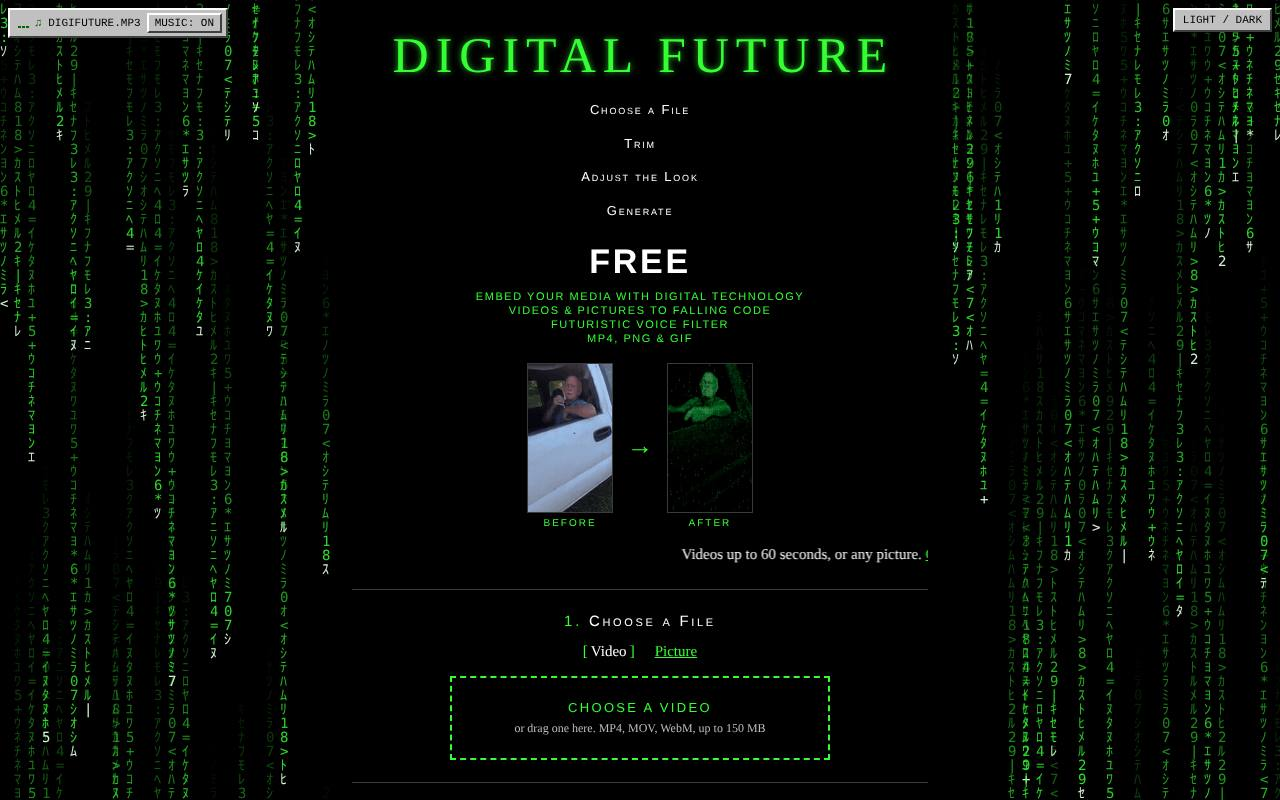
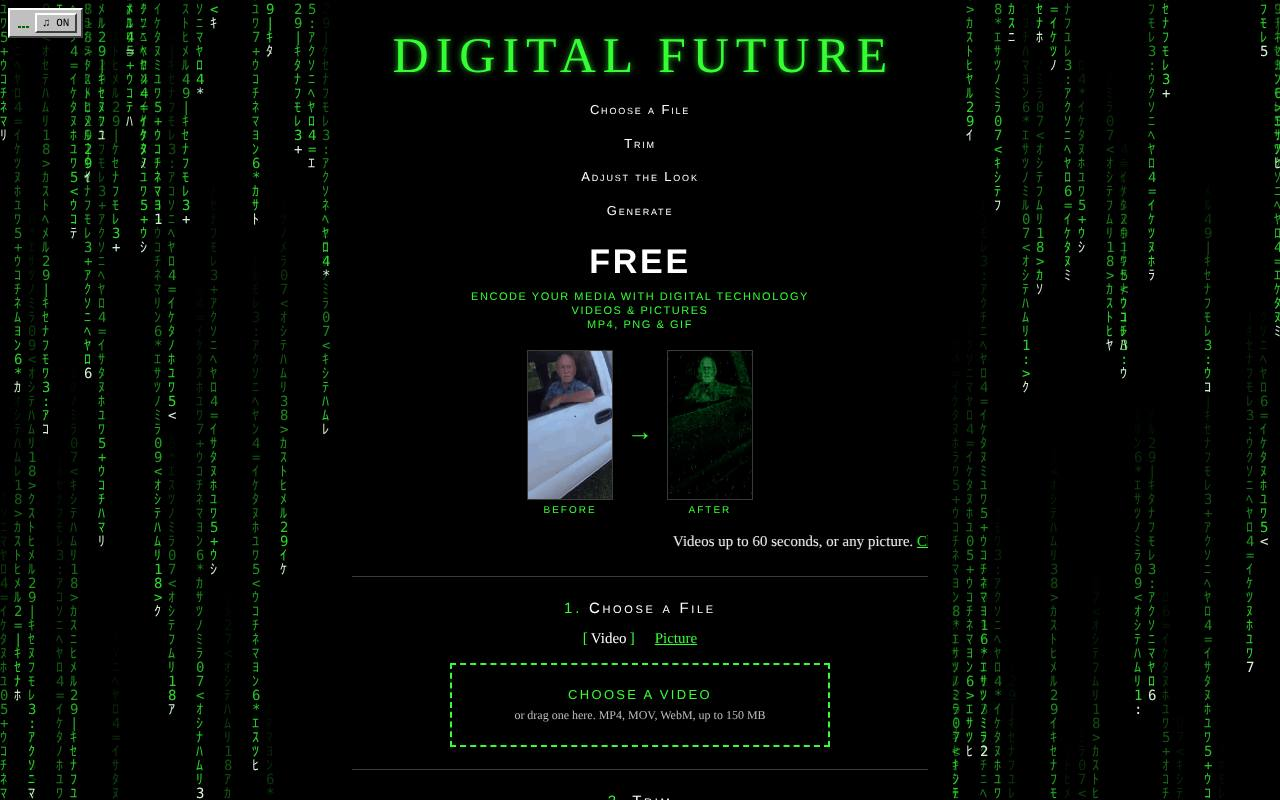
Dark only: remove the light/dark button; compact music button (EQ + note On/Off)
Claude-Session: https://claude.ai/code/session_01SCG8RWDqdne2yEQmG7w3oo

diff --git a/index.html b/index.html
@@ -2,7 +2,7 @@
 <html lang="en">
 <head>
 <meta charset="utf-8">
-<meta http-equiv="Content-Security-Policy" content="default-src 'none'; script-src 'self' 'sha256-CGoVCLP1XsDsarG/LmF91Db5imJw9PgcFa6im8PIS6w=' 'sha256-sdW1y9pp6RVU5137RgHFrkHDOBUOiHIsS1FOCgL4JkQ=' 'sha256-cmMvs6N+i5ngWlbiUZbsfDh8wDxk5REphbrt843VTqU=' 'sha256-xU+E9Bn0Ave5Dnf0g+a7vNTyN2txwr8pJ1vN/V0R3bo=' 'sha256-D1htLPfzsNMtnniEd24mBrBxrgeYW87qrzsqFNeHO7w=' https://static.cloudflareinsights.com https://*.googlesyndication.com https://*.doubleclick.net https://*.google.com https://*.gstatic.com https://*.googletagservices.com https://*.adtrafficquality.google https://*.googleadservices.com; style-src 'self' 'unsafe-inline'; img-src 'self' data: blob: https://michbegl-digital-future.hf.space https://*.googlesyndication.com https://*.doubleclick.net https://*.google.com https://*.gstatic.com https://*.googletagservices.com https://*.adtrafficquality.google https://*.googleadservices.com; media-src 'self' blob: https://michbegl-digital-future.hf.space; connect-src 'self' https://michbegl-digital-future.hf.space https://cpzhsztczixiidxypvmb.supabase.co https://cloudflareinsights.com https://*.googlesyndication.com https://*.doubleclick.net https://*.google.com https://*.gstatic.com https://*.googletagservices.com https://*.adtrafficquality.google https://*.googleadservices.com; frame-src https://*.googlesyndication.com https://*.doubleclick.net https://*.google.com https://*.gstatic.com https://*.googletagservices.com https://*.adtrafficquality.google https://*.googleadservices.com; base-uri 'none'; form-action 'none'; object-src 'none'">
+<meta http-equiv="Content-Security-Policy" content="default-src 'none'; script-src 'self' 'sha256-QbNPvecOgzm8JOCteT75hZ6nbvAWbvnccF2k0Na2/+Q=' 'sha256-sdW1y9pp6RVU5137RgHFrkHDOBUOiHIsS1FOCgL4JkQ=' 'sha256-oIMrZF2LGmW6nypoj4qKFvRhREZOxS8nYDaKyubjg1g=' 'sha256-DJhAB4klH7H0RR0hhT5mO1rpHx5SLy7JU6uS93UkmyU=' 'sha256-D1htLPfzsNMtnniEd24mBrBxrgeYW87qrzsqFNeHO7w=' https://static.cloudflareinsights.com https://*.googlesyndication.com https://*.doubleclick.net https://*.google.com https://*.gstatic.com https://*.googletagservices.com https://*.adtrafficquality.google https://*.googleadservices.com; style-src 'self' 'unsafe-inline'; img-src 'self' data: blob: https://michbegl-digital-future.hf.space https://*.googlesyndication.com https://*.doubleclick.net https://*.google.com https://*.gstatic.com https://*.googletagservices.com https://*.adtrafficquality.google https://*.googleadservices.com; media-src 'self' blob: https://michbegl-digital-future.hf.space; connect-src 'self' https://michbegl-digital-future.hf.space https://cpzhsztczixiidxypvmb.supabase.co https://cloudflareinsights.com https://*.googlesyndication.com https://*.doubleclick.net https://*.google.com https://*.gstatic.com https://*.googletagservices.com https://*.adtrafficquality.google https://*.googleadservices.com; frame-src https://*.googlesyndication.com https://*.doubleclick.net https://*.google.com https://*.gstatic.com https://*.googletagservices.com https://*.adtrafficquality.google https://*.googleadservices.com; base-uri 'none'; form-action 'none'; object-src 'none'">
 <meta name="referrer" content="strict-origin-when-cross-origin">
 <meta name="viewport" content="width=device-width, initial-scale=1, viewport-fit=cover">
 <title>DIGITAL FUTURE</title>
@@ -25,9 +25,7 @@
 <script src="config.js"></script>
 <script>
   (function () {
-    var t = null;
-    try { t = localStorage.getItem("df-theme"); } catch (e) {}
-    document.documentElement.dataset.theme = t || "dark";
+    document.documentElement.dataset.theme = "dark";   // dark only (light mode retired 13 Nov)
   })();
 </script>
 <script>
@@ -217,11 +215,9 @@
 <body>
 <div class="oldphone" id="oldphone" aria-hidden="true"><div class="op-win"><img src="oldphone.jpg" alt="" width="1280" height="800"><div class="op-status" id="op-status"><span class="op-text" id="op-text"></span><span class="op-bar"><i id="op-bar"></i></span></div></div></div>
 <canvas id="rain" aria-hidden="true"></canvas>
-<button class="theme" id="theme" type="button" aria-label="Switch between light and dark mode">Light / Dark</button>
 <div class="player" id="player" role="group" aria-label="Music">
   <span class="eq" aria-hidden="true"><u></u><u></u><u></u></span>
-  <span class="np"><i>&#9835;</i> digifuture.mp3</span>
-  <button type="button" id="musictoggle" aria-pressed="true">Music: On</button>
+  <button type="button" id="musictoggle" aria-pressed="true" aria-label="Music">&#9835; On</button>
 </div>
 
 <div class="page">
@@ -326,13 +322,7 @@
 </div>
 
 <script>
-  // theme before paint: saved choice, else the system setting
-  (function () {
-    var t = null;
-    try { t = localStorage.getItem("df-theme"); } catch (e) {}
-    if (!t) t = "dark";
-    document.documentElement.dataset.theme = t;
-  })();
+  document.documentElement.dataset.theme = "dark";
 </script>
 <script>
 (function () {
@@ -347,11 +337,6 @@
                 set: function (k, v) { try { localStorage.setItem(k, v); } catch (e) {} },
                 del: function (k) { try { localStorage.removeItem(k); } catch (e) {} } };
 
-  /* theme toggle */
-  $("theme").addEventListener("click", function () {
-    var t = document.documentElement.dataset.theme === "dark" ? "light" : "dark";
-    document.documentElement.dataset.theme = t; store.set("df-theme", t);
-  });
 
   /* segmented controls */
   var saved = null;
@@ -575,7 +560,7 @@
     gain.gain.linearRampToValueAtTime(target, now + ms / 1000);
   }
   function musicUpdate() {
-    mbtn.textContent = musicOn ? "Music: On" : "Music: Off";
+    mbtn.textContent = musicOn ? "\u266B On" : "\u266B Off";
     mbtn.setAttribute("aria-pressed", musicOn ? "true" : "false");
     var shouldPlay = musicOn && started && !hush && !document.hidden;
     clearTimeout(offT);
